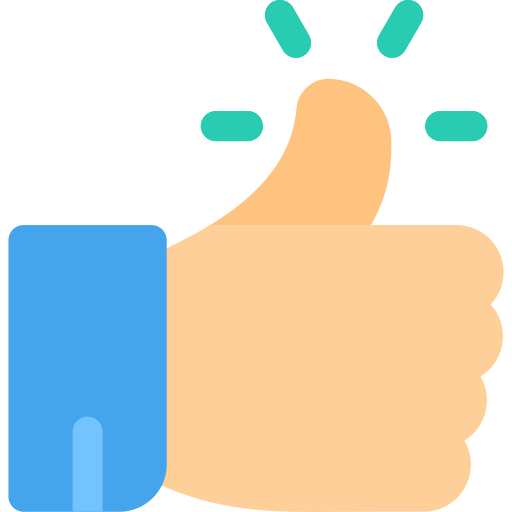
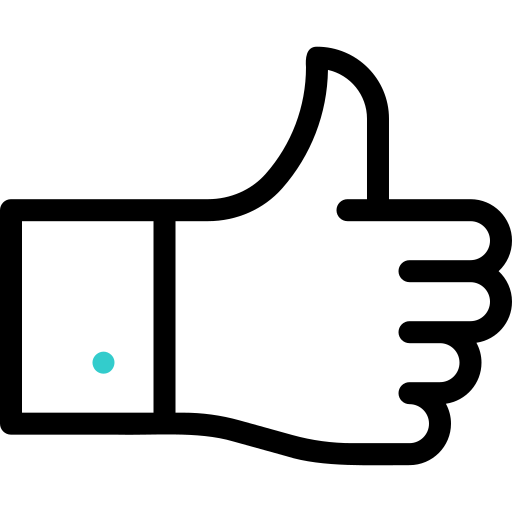
completed voting - added in necessary changes
passed votes from singlearticle
allowed users to only vote once.
removed console logs.

diff --git a/src/Components/SingleArticle.jsx b/src/Components/SingleArticle.jsx
@@ -2,6 +2,7 @@ import { useEffect, useState } from "react";
 import { useParams } from "react-router-dom";
 import { getArticle, getArticles } from "../Utility";
 import Comments from "./Comments";
+import UpdateArticleVotes from "./UpdateArticleVotes";
 
 function SingleArticle() {
   const { article_id } = useParams();
@@ -38,12 +39,9 @@ return (
           <p className="article-author">By {article.article.author}</p>
           <p className="article-date">{article.article.created_at} </p>
           <p className="article-topic"> Topic: {article.article.topic}</p>
-<<<<<<< Updated upstream
-=======
           
           <UpdateArticleVotes articleId={article_id}
           votes={article.article.votes}/>
->>>>>>> Stashed changes
         </div>
         <p className="article-body">{article.article.body}</p>
         <Comments articleId={article_id} 

diff --git a/src/Components/UpdateArticleVotes.jsx b/src/Components/UpdateArticleVotes.jsx
@@ -1,6 +1,6 @@
 import { updateVotes } from "../Utility";
 import { useState } from "react";
-import staticlike from "../assets/staticlike.png";
+import like from "../assets/like.png"
 import dislike from "../assets/dislike.png";
 
 function UpdateArticleVotes({ articleId, votes }) {
@@ -45,7 +45,7 @@ function UpdateArticleVotes({ articleId, votes }) {
       {err ? <p>{err}</p> : null}
       <div>Votes: {voteCount} </div>
       <img
-        src={staticlike}
+        src={like}
         alt={"Upvote icon"}
         style={{
           width: "33px",

diff --git a/src/Components/Comments.jsx b/src/Components/Comments.jsx
@@ -1,14 +1,11 @@
 import { getComments } from "../Utility";
 import { useState, useEffect } from "react";
-import like from "../assets/like.png";
+import like from "../assets/commentlike.png";
 import user from "../assets/user.png"
 function Comments({ articleId }) {
   const [comments, setComments] = useState([]);
-<<<<<<< Updated upstream
 
-=======
 const [isLoading, setIsLoading] = useState(true)
->>>>>>> Stashed changes
   useEffect(() => {
     getComments(articleId)
     .then((comments) => {

diff --git a/src/Components/ArticleCard.jsx b/src/Components/ArticleCard.jsx
@@ -10,11 +10,14 @@ function ArticleCard({ article }) {
         src={article.article_img_url}
         alt={article.title}
         style={{ maxWidth: '100%', maxHeight: '200px' }}
+        
       />
+      
       <h2>{article.title}</h2>
+      </Link>
       <p>Comment Count: {article.comment_count}</p>
       <p>Topic: {article.topic}</p>
-      </Link>
+      
     </div>
     
     

diff --git a/src/Utility.js b/src/Utility.js
@@ -24,3 +24,7 @@ export function getArticle(articleId) {
     return data;
   });
 }
+
+export function updateVotes(votes, articleId) {
+    return apiLink.patch(`/articles/${articleId}`, { inc_votes: votes } );
+  }
